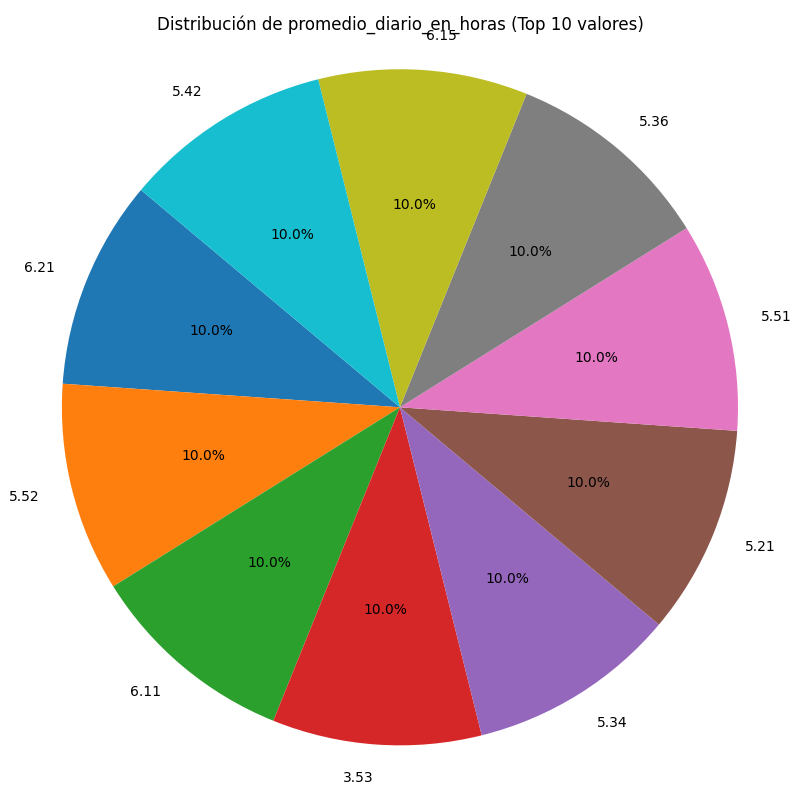
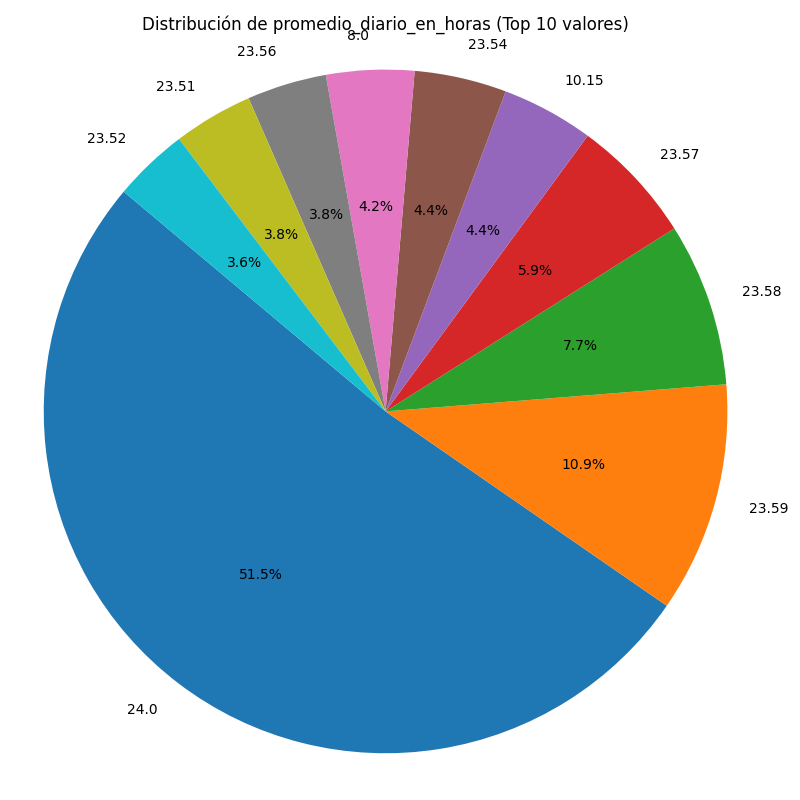
Se agregan func estadisticas Max min

diff --git a/main.py b/main.py
@@ -24,7 +24,7 @@ Versión: carga adaptable a separadores
 import pandas as pd
 from limpieza import normalizar_dataset
 from estadisticas import (
-    mostrar_promedio, mostrar_mediana, mostrar_varianza,
+    mostrar_max, mostrar_min, mostrar_promedio, mostrar_mediana, mostrar_varianza,
     mostrar_desviacion_estandar, mostrar_percentiles, posicion_percentil)
 from graficas import (
     graficar_distribucion_normal, graficar_promedio, graficar_boxplot,
@@ -99,10 +99,12 @@ df_filtrado = df[filtro]
 
 print(df.columns)
 
-df_filtro_mun = df[df['id_municipio'] == 27745]
+df_filtro_mun = df[(df['id_municipio'] == 27745) & (df['ano_servicio'].between(2022, 2024))]
+
 
 print(f"--- Estadísticas de '{col_horas} ' ---")
-mostrar_promedio(df_filtro_mun, col_horas)
+mostrar_max(df_filtro_mun, col_horas)
+mostrar_min(df_filtro_mun, col_horas)
 mostrar_promedio(df_filtrado, col_horas)
 mostrar_mediana(df_filtrado, col_horas)
 mostrar_varianza(df_filtrado, col_horas)
@@ -115,10 +117,10 @@ posicion_percentil(df_filtrado, col_horas, valor=5)
 # -----------------------------------------------------------------------------
 
 #graficar_distribucion_normal(df_filtrado, col_horas)
-#graficar_promedio(df_filtrado, col_horas)
-graficar_promedio(df_filtro_mun, col_horas)
-#graficar_boxplot(df_filtrado, col_horas)
-#graficar_histograma(df_filtrado, col_horas)
+graficar_promedio(df_filtrado, col_horas)
+#graficar_promedio(df_filtro_mun, col_horas)
+graficar_boxplot(df_filtro_mun, col_horas)
+graficar_histograma(df_filtrado, col_horas)
 #graficar_barras_categoria(df_filtrado, col_horas)
 
 num_cols = [c for c in ['energia_activa', 'energia_reactiva', 'potencia_maxima', col_horas] if c in df_filtrado.columns]

diff --git a/estadisticas.py b/estadisticas.py
@@ -2,6 +2,16 @@
 
 import numpy as np
 
+def mostrar_max(df, col):
+    valor = df[col].max()
+    print(f"Máximo: {valor:.2f}")
+    return valor
+
+def mostrar_min(df, col):
+    valor = df[col].min()
+    print(f"Mínimo: {valor:.2f}")
+    return valor
+
 def mostrar_promedio(df, col):
     valor = df[col].mean()
     print(f"Promedio: {valor:.2f}")
